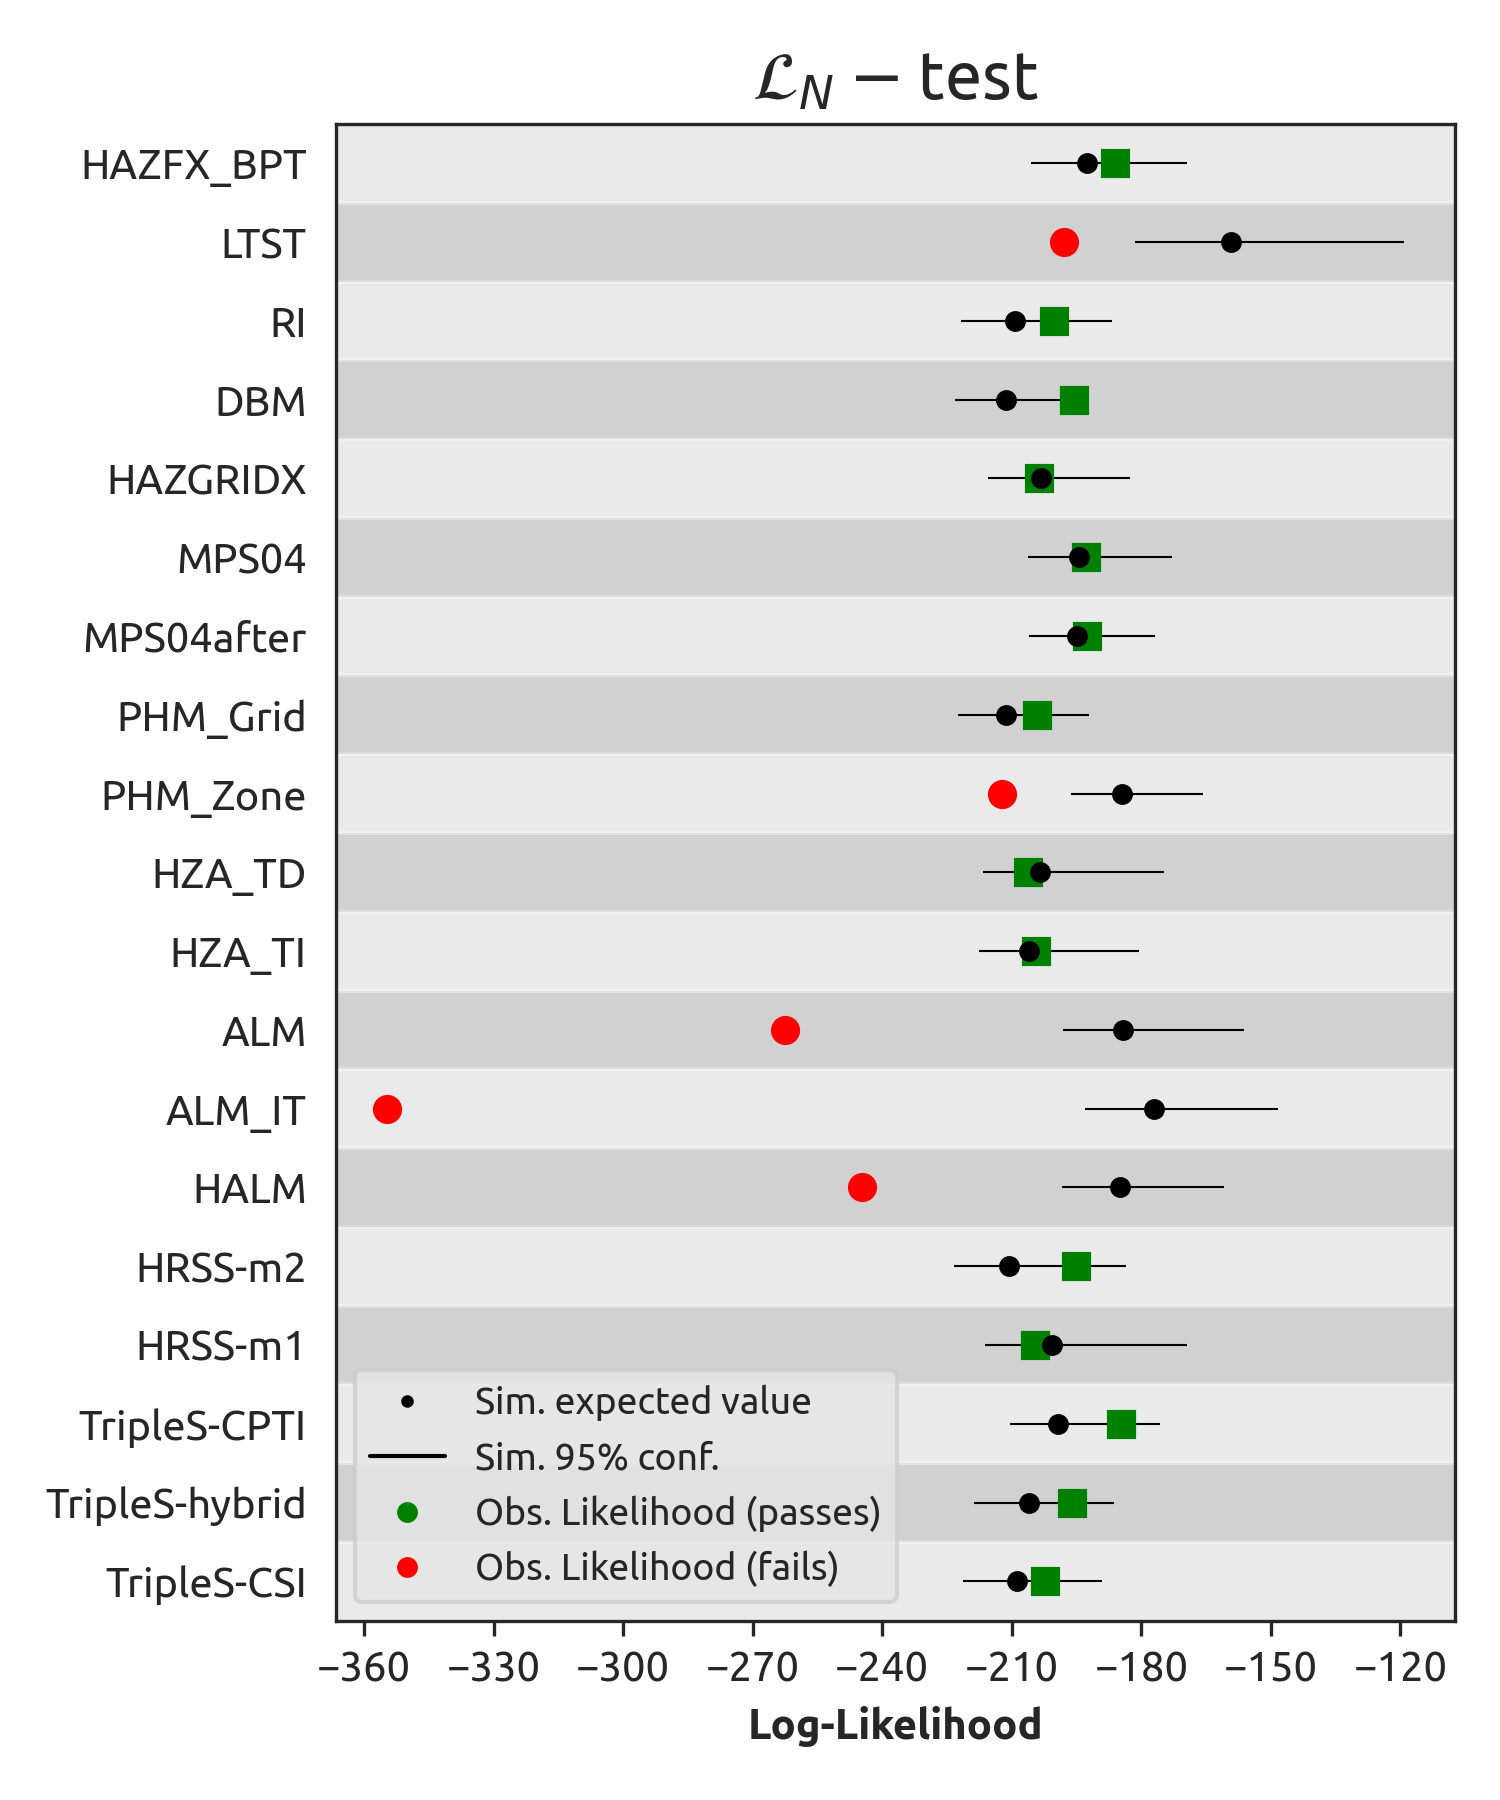
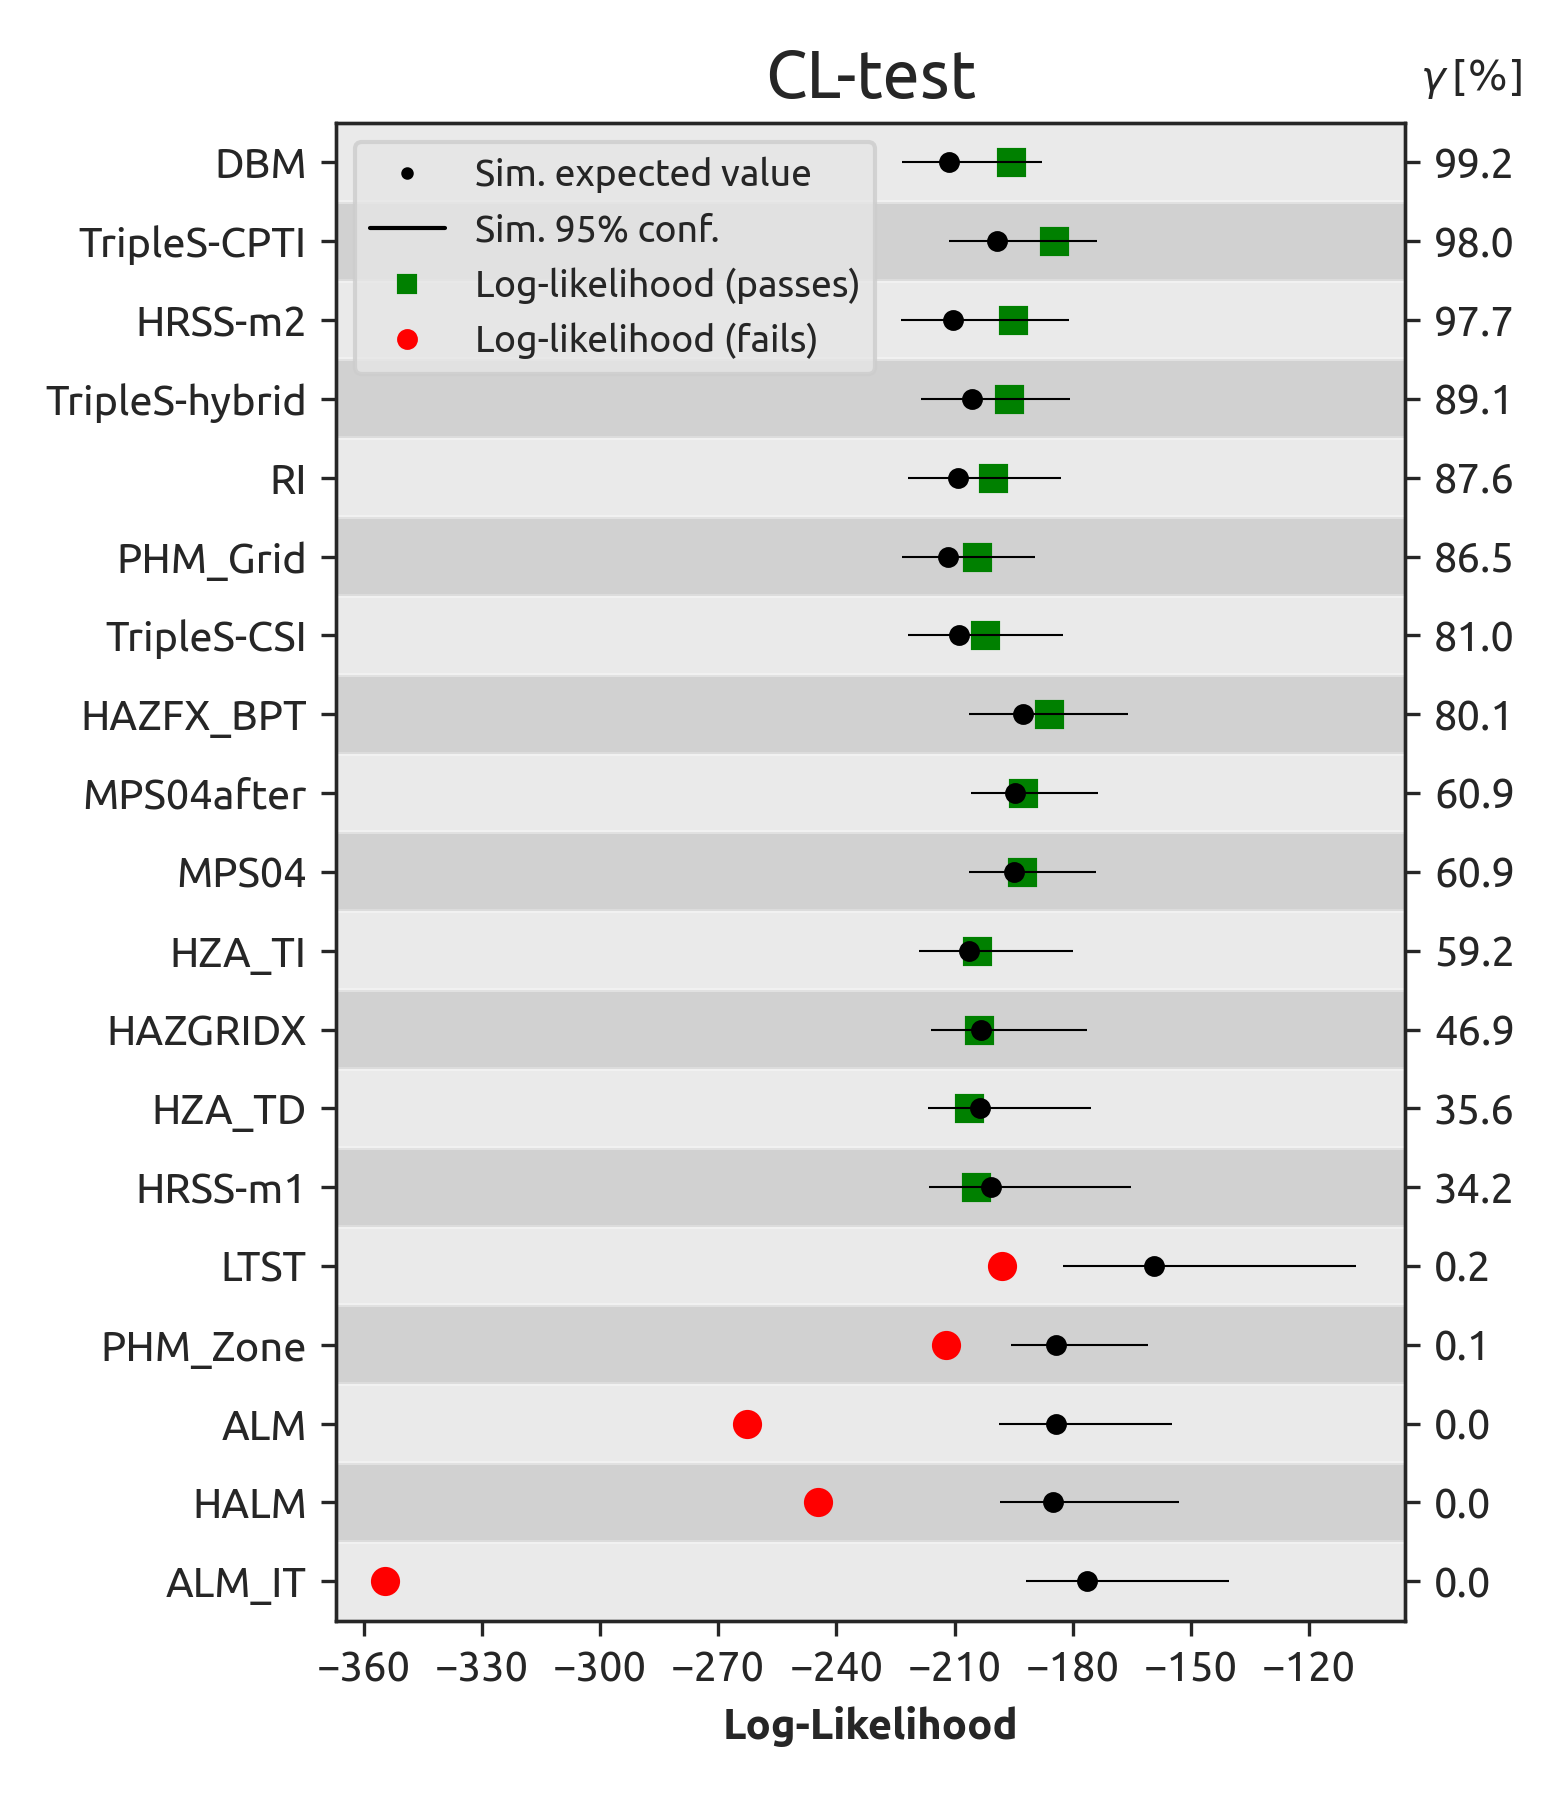
added makefig for cl test with ranked models

diff --git a/figures/figure_comp_cons/fig_cl_t_tests.py b/figures/figure_comp_cons/fig_cl_t_tests.py
@@ -1,0 +1,58 @@
+import numpy
+import seaborn
+import matplotlib.pyplot as plt
+import matplotlib.ticker as tick
+from matplotlib.lines import Line2D
+
+import csep
+from floatcsep import experiment
+seaborn.set_style("white", {"axes.facecolor": ".9", 'font.family': 'Ubuntu'})
+plt.rcParams.update({'xtick.bottom': True, 'axes.labelweight': 'bold',
+                     'xtick.labelsize': 10, 'ytick.labelsize': 10,
+                     'legend.fontsize': 9})
+
+
+def plot_cl_test(experiment, figpath=None):
+
+    cl_test = [i for i in experiment.tests if i.name == 'Poisson_CL'][0]
+    cl_results = experiment.read_results(cl_test, experiment.timewindows[-1])
+    rank = numpy.argsort([i.quantile for i in cl_results])[::-1]
+    cl_results = [cl_results[i] for i in rank]
+    ax = csep.utils.plots.plot_poisson_consistency_test(
+                                cl_results,
+                                plot_args=cl_test.plot_args[0],
+                                **cl_test.plot_kwargs[0])
+    for i, j in enumerate(cl_results):
+        ax.plot(numpy.mean(j.test_distribution),
+                len(cl_results) - i - 1, 'ko', markersize=4)
+        ax.xaxis.set_major_locator(tick.MaxNLocator(integer=True))
+
+    legend_elements = [Line2D([0], [0], marker='o', lw=0, color='k',
+                              label='Sim. expected value', markersize=2),
+                       Line2D([0], [0], color='k', lw=1,
+                              label='Sim. 95% conf.'),
+                       Line2D([0], [1], color='green', marker='s', lw=0,
+                              markersize=4, label='Log-likelihood (passes)'),
+                       Line2D([0], [1], color='red', marker='o', lw=0,
+                              markersize=4, label='Log-likelihood (fails)')]
+    ax.legend(handles=legend_elements, loc='upper left', fontsize=9)
+
+    ax2 = ax.twinx()
+    ax2.set_yticks(numpy.arange(len(cl_results)))
+    ax2.set_yticklabels(
+        [f'{res.quantile * 100:.1f}' for res in cl_results[::-1]])
+    ax2.set_ylim([-0.5, len(cl_results) - 0.5])
+    ax.get_figure().text(0.91, 0.95, r'$\gamma\,[\%]$')
+    plt.tight_layout()
+    if figpath:
+        plt.savefig(figpath, dpi=300)
+    plt.show()
+
+
+if __name__ == '__main__':
+    cfg = '../../src/total/config.yml'
+    exp = experiment.Experiment.from_yml(cfg)
+    exp.set_tasks()
+
+    cl_figpath = 'Poisson_CL.png'
+    plot_cl_test(exp, cl_figpath)
